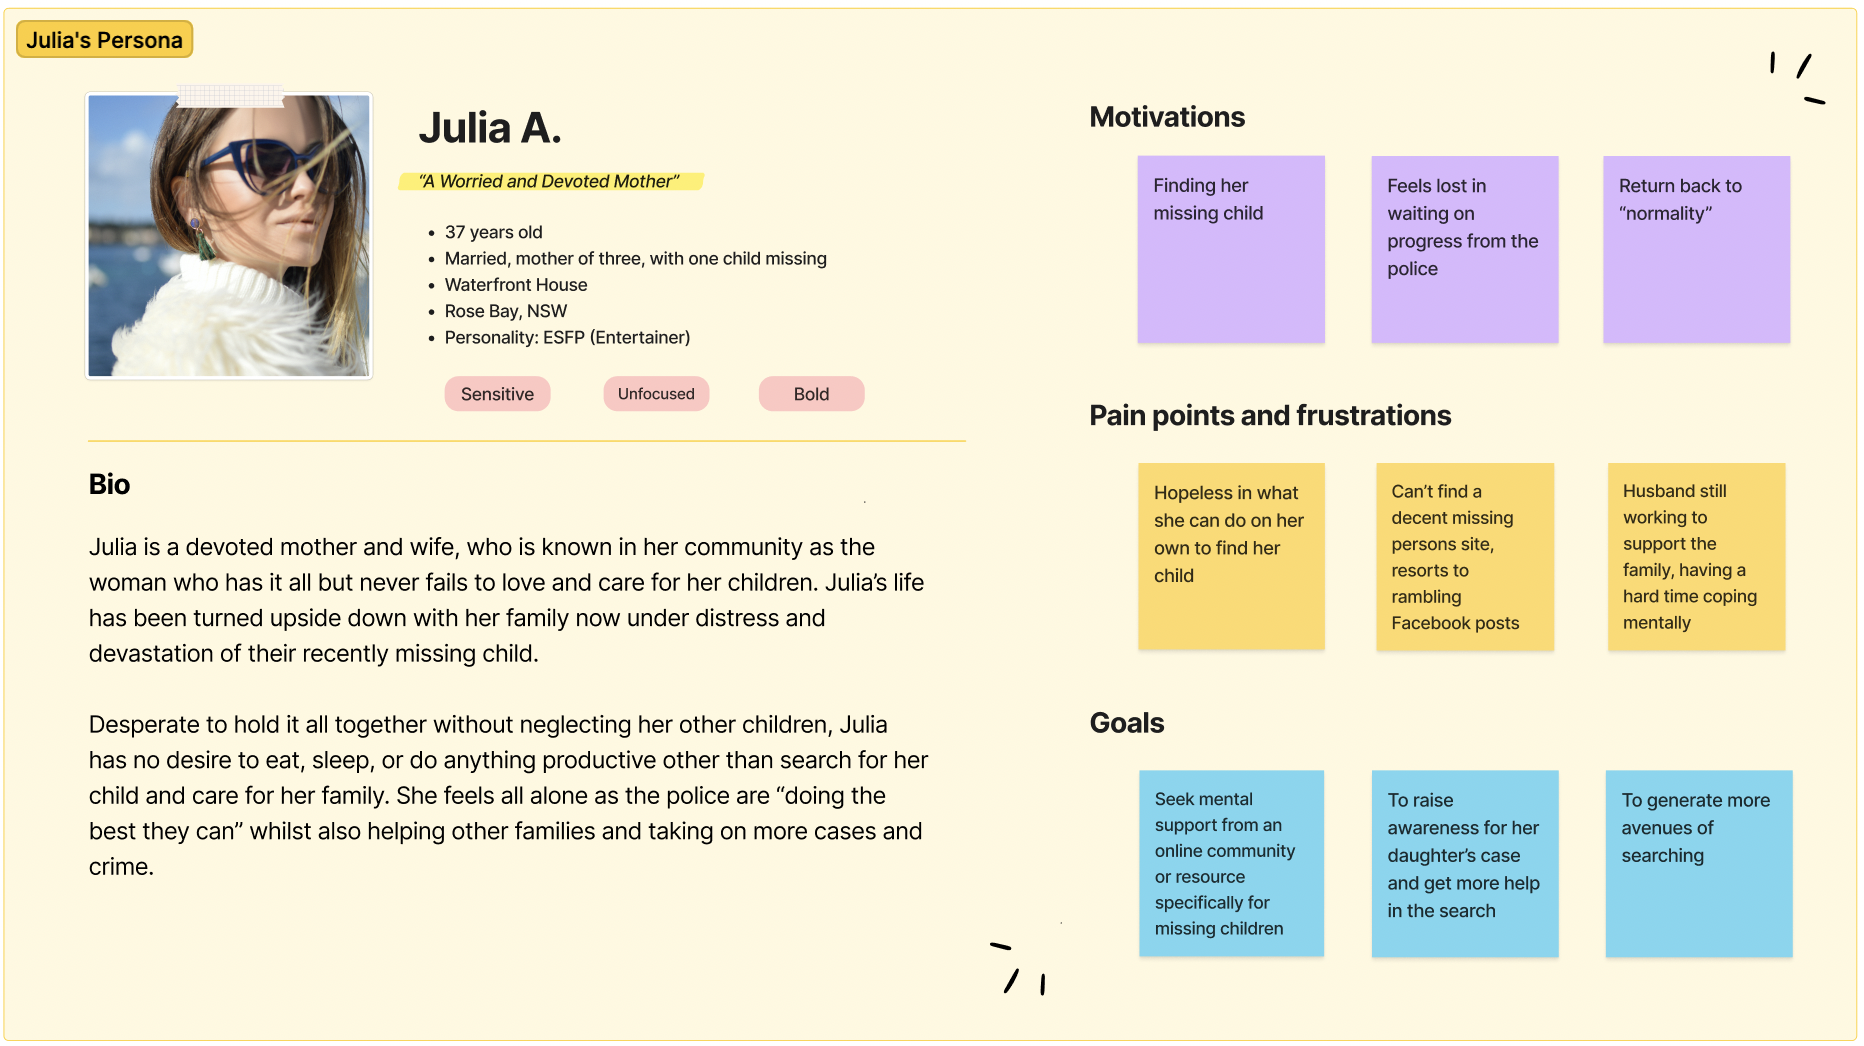
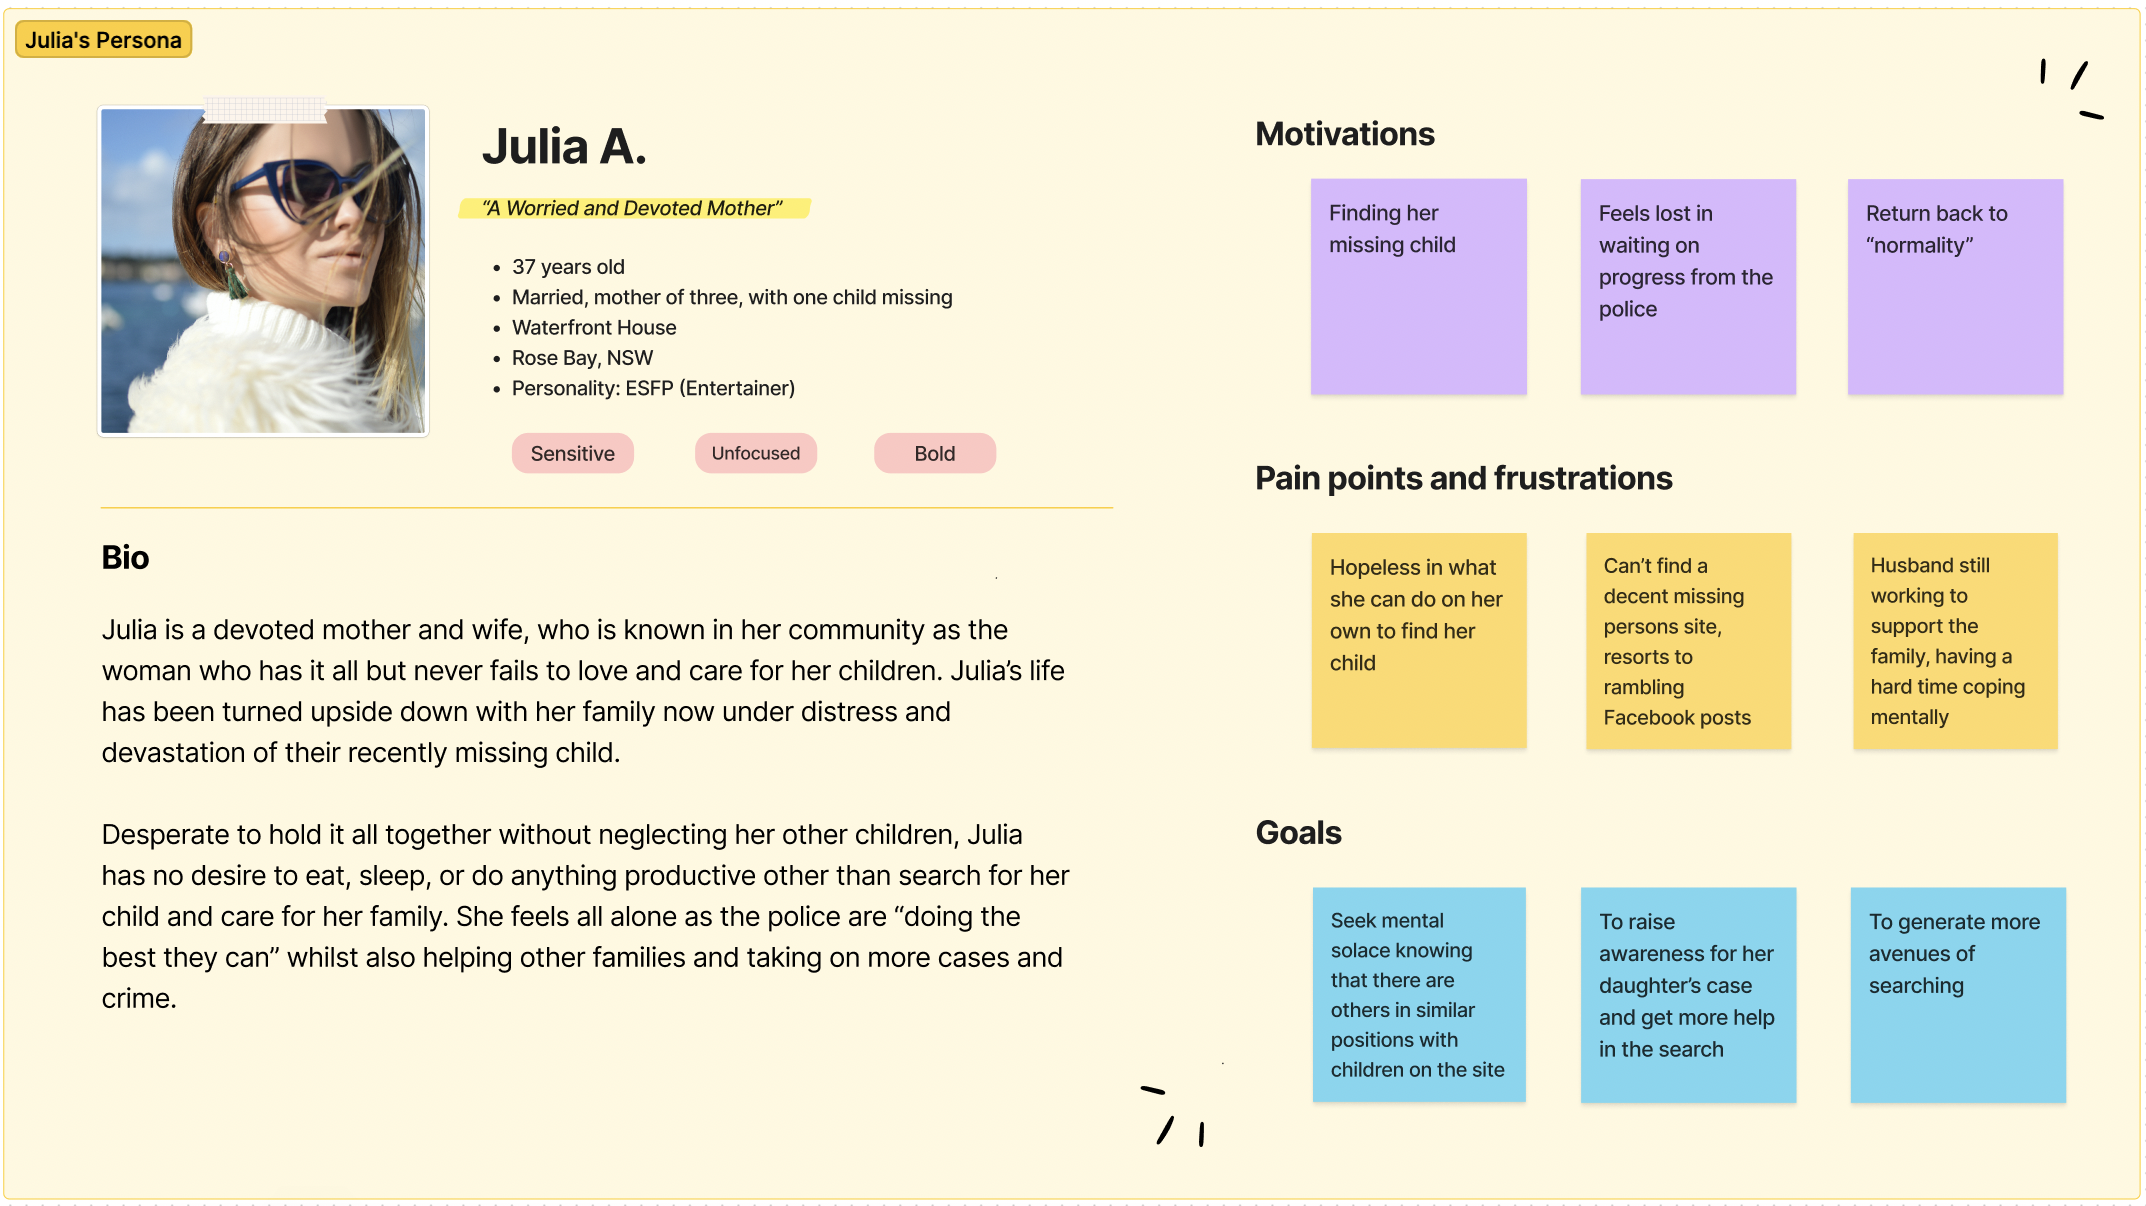
docs: modified userstories after team review.

diff --git a/README.md b/README.md
@@ -150,7 +150,7 @@ An ERD is attached for the purpose of visualising the database schema/models tha
 ### 4. User Stories and Personas
 #### Stage 1 - Preliminary Users and Stories
 >
-In developing our site, it was apparent based off the intended functionality that there would be four types of users: public users (any user not logged-in), generic user (a user not of the other types who's logged in), admin, and police users. Any of these types of users can still interact with the site without being logged in, however a logged in user provides added functionality, with police and admin sharing the same levels of accessibility to the stored records of missing persons. Logged-in admin users have the ability and authorization to access records of all reports and all users (including police).
+In developing our site, it was apparent based off the intended functionality that there would be four types of users: public users (any user not logged-in), general user (a user not of the other types who's logged in), admin, and police users. Any of these types of users can still interact with the site without being logged in, however a logged in user provides added functionality, with police and admin sharing the same levels of accessibility to the stored records of missing persons. Police users can modify any general users' reports, and admin can modify any police or general users' reports.
 
 The preliminary user stories are as follows:
 
@@ -160,34 +160,34 @@ The preliminary user stories are as follows:
     - As a public user, I want to search for a missing person.
     - As a public user, I want to share a missing person to a social media platform.
 >
-- Generic User (any user not of the admin/police type, and also logged in):
+- General User (any user not of the admin/police type, and also logged in):
     >
-    - As a logged-in generic user, I want to be able to see all the reports I've made.
-    - As a logged-in generic user, I want to be able to update my account details.
-    - As a logged-in generic user, I want to lodge new missing person reports.
+    - As a logged-in general user, I want to be able to see all the reports I've made.
+    - As a logged-in general user, I want to be able to update my account details.
+    - As a logged-in general user, I want to lodge new missing person reports.
 >
 - Logged-in Police:
     >
     - As a logged-in police user, I want to change my station details.
-    - As a logged-in police user, I want to update the details of a currently logged case made by a generic user.
+    - As a logged-in police user, I want to update the details of a currently logged case made by a general user.
     - As a logged-in police user, I want to add a new missing person report.
 >
 - Logged-in Admin:
     >
-    - As a logged-in admin user, I want to see a list of all users.
-    - As a logged-in admin user, I want to see how many missing person reports are filed.
-    - As a logged-in admin user, I want to view all the police stations are using the site.
+    - As a logged-in admin, I want to be able to modify any user-type's listing.
+    - As a logged-in admin, I want to be able to delete any user-type's listing.
+>
 
 #### Stage 2 - User Personas
 After understanding the general needs of the intended users, in order to gain better insight on these users' needs, we created user personas. These personas are representative of the intended users of the site, and allows us to understand, as developers, what their needs are in the creation of features to be included in the site.
 
-** Public users are generic users not logged-in; generic users are logged-in users that are also not police or admin.
+** Public users are general users not logged-in; general users are logged-in users that are also not police or admin.
 
 - Betty is considered a public user.
     >
     ![Betty persona](./docs/betty-persona.png)
 >
-- Peter is considered a generic user (logged-in).
+- Peter is considered a general user (logged-in).
     >
     ![Peter persona](./docs/peter-persona.png)
 >
@@ -195,7 +195,7 @@ After understanding the general needs of the intended users, in order to gain be
     >
     ![Michael persona](./docs/michael-persona.png)
 >
-- Julia is considered a generic user (logged-in).
+- Julia is considered a general user (logged-in).
     >
     ![Julia persona](./docs/julia-persona.png)
 >
@@ -218,7 +218,7 @@ Upon reviewing and getting familiar with the personas of the intended users, we 
     - As Betty, I want to view a list of missing persons with big facial photos so I can easily read and understand.
     - As Betty, I want to search for a specific missing person so that I can provide useful information if I do know of them.
     - As Betty, I want to share a missing person to my social media so that I can share information to my elderly friends who may have knowledge.
-        - As Betty, I want to share a missing person to my social media so that I can share information about any elderly friends who go missing for age-related reasons.
+        - As Betty, I want to share a missing person to my Facebook and email so that I can share information about any elderly friends who go missing for age-related reasons.
     - As Betty, I want to be able to use my desktop to look for missing persons because I do not own a mobile phone.
     >
     ##### Acceptance criteria:
@@ -228,27 +228,28 @@ Upon reviewing and getting familiar with the personas of the intended users, we 
     - A special feature/button that allows for simple sharing of info to external social media platform(s)
     - Appropriate rendering of content and full visibility of site on a desktop (no cutting off of any information)
 >
-- ##### Peter, Generic User (any user not of the admin/police type, and also logged in):
+- ##### Peter, general User (any user not of the admin/police type, and also logged in):
     >
     - As Peter, I want to use a website that pools information for me so that I can stop using multiple sites to find information.
     - As Peter, I want to be able to lodge a new missing report so that I can keep track of new uncovered cases from my internet sleuthing.
-        - As Peter, I want to lodge new missing person reports so that I can be keep track of new uncovered Australian cases whilst internet sleuthing.
+        - As Peter, I want to lodge new missing person reports so that I can be keep track of new uncovered New South Wales cases whilst internet sleuthing.
     - As Peter, I want to see a list of all my active reports so that I can play my part in maintaining the site with current information.
     - As Peter, I want to use a missing persons website so that I can browse/log on anytime that works with my schedule and still see current data.
     >
     ##### Acceptance criteria:
     - User friendly interface that allows for information to be displayed in a clear but efficient way
     - Incorporate a form for user to fill in and create a new missing persons report
-    - Create a portal/dashboard for user account to allow users to view logged reports attributed to their account
+    - Create a portal/dashboard for user account to allow logged-in user to view and modify their logged reports 
     - Create a login form to allow users to enter details and access their dashboard
     - Ensure website and user portal is accessible and fully functional at all times for user convenience
+    - Create a button to display all of a logged-in user's reports
 >
 - ##### Michael, Police User (logged-in):
     >
-    - As Michael, I want to change my station details so that if I get stationed elsewhere, I won't lose my account. 
+    - As Michael, I want to change my station's details so that the station account details stay current and all police officers at my station can use the site. 
         - As Michael, I want to change my station details so that if I get stationed elsewhere, I can keep my account active and still be a valued member of the missing persons site.
-    - As Michael, I want to update the details of a currently logged case made by a generic user so that case details can remain current.
-        As Michael, I want to update the details of a currently logged case made by a generic user so that families and helpful civilians can work with the most current and reliable information.
+    - As Michael, I want to update the details of a currently logged case made by a general user so that case details can remain current.
+        As Michael, I want to update the details of a currently logged case made by a general user so that families and helpful civilians can work with the most current and reliable information.
     - As Michael, I want to add a new missing person report so that others can help in the search.
         - As Michael, I want to add a new missing person report to reach a greater audience more quickly because I do not have enough time to do a press conference for every missing person.
     - As Michael, I want to delete a missing person report so that families can recieve peace and closure once a case is closed.
@@ -256,20 +257,18 @@ Upon reviewing and getting familiar with the personas of the intended users, we 
     ##### Acceptance criteria:
     - Create a login form to allow police to enter details and access their dashboard/portal
     - Include search option within dashboard for police to query the data
-    - Ability to search current cases from a generic user and modify details
+    - Ability to search current cases from a general user and modify details
     - Create a form to add a new missing person to the database
     - Include a button to completely remove a missing person from the database
 >
-- ##### Julia, Generic User (any user not of the admin/police type, and also logged in):
+- ##### Julia, general User (any user not of the admin/police type, and also logged in):
     >
     - As Julia, I want to be able to create an account as I have been recently affected by a missing person.
         - As Julia, I want to be able to create a new account so I can share that my daughter has recently gone missing.
     - As Julia, I want to be create a new missing person report for my daughter so that people can help me find her.
     - As Julia, I want to be able to share my missing person report on my social media so that other people can view reliable and organized information.
-        - As Julia, I want to be able to share my missing person report on my social media so that other people can view reliable and organized information and continue to share it easily on their profiles too.
+        - As Julia, I want to be able to share my missing person report via Facebook and email so that other people can view reliable and organized information and continue to share it easily on their profiles too.
     - As Julia, I want to lodge new missing person reports so that can raise awareness for other peoples' missing children.
-    - As Julia, I want to be able to find relevant resources on the site so that I can get mental health support.
-        - As Julia, I want to be able to find relevant resources on the site so that I can get mental health support without feeling like I am not doing enough to help find my daughter.
     >
     ##### Acceptance criteria:
     - Create a signup form for new users to enter details and become a member of the database
@@ -285,8 +284,8 @@ Upon reviewing and getting familiar with the personas of the intended users, we 
     - As Steve, I want to search for a missing person so that I can follow up leads if that person is not a high profile case.
         - As Steve, I want to search for a missing person so that I can get more public information including last whereabouts etc and use this to speak to the local community. 
     - As Steve, I want to share a missing person to my social media platform. 
-        - As Steve, I want to share a missing person to my social media platform to reach my social media followers and bring attention to a particular case.
-        - As Steve, I want to share a missing person to my social media platform because my generation does not watch the news often. 
+        - As Steve, I want to share a missing person to my Facebook or email to reach my followers and bring attention to a particular case.
+        - As Steve, I want to share a missing person to my Facebook or email because my generation does not watch the news often. 
     >
     ##### Acceptance criteria:
     - Include a search bar that allows users to specify accepted search parameters
@@ -296,19 +295,18 @@ Upon reviewing and getting familiar with the personas of the intended users, we 
 >
 - ##### Megan, Admin User (logged-in):
     >
-    - As Megan, I want to see a list of all users so that I can keep track of the usage of the site.
-        - As Megan, I want to see a list of all users so that I can see if the site is growing in popularity and gaining traction, or if the site needs to be altered.
-    - As Megan, I want to see how many missing person reports are filed so that I can see how much of the database is being used.
-    - As Megan, I want to view all the police stations are using the site so that I can reach out to any if required.
-       - As Megan, I want to view all the police stations are using the site so that I can reach out to any about case detail change logs if required.
-    - As Megan, I want to delete a user because they are reporting erroneous missing persons.
-        - As Megan, I want to delete a user because they are reporting erroneous missing persons and discrediting the site by doing so.
+    - As Megan, I want to be able to login to the site so that I can update reports from any users as required.
+        - As Megan, I want to be able to login to the site so that I can update or delete reports from any users as required.
+    - As Megan, I want to be able to log reports from my account in case I am affected by a missing person.
+    - As Megan, I want to delete a report because it has been solved.
+        - As Megan, I want to delete a report because it has been solved or closed, and is no longer needing to be shown on the site.
     >
     ##### Acceptance criteria:
     - Create a login form to access a user dashboard/portal
-    - Allow ability for admin users to access all current user data and display in a clear manner
-    - Include search option within dashboard for admin to query the data
-    - Include a button within the dashboard to delete any user if required
+    - Allow ability for admin users to view and edit any current missing person report
+    - Create a form in the dashboard/portal for admin to modify any current missing person report
+    - Include search option within dashboard for admin to query missing persons reports
+    - Include a button within the dashboard to delete any report if required
 
 ### 5. Design Processes & Wireframing
 
